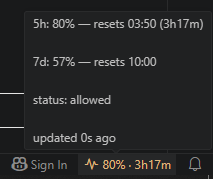
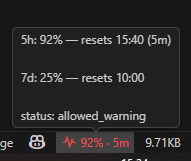
removed updated status bar item

Changed region(s): [[0.0, 0.0932, 0.9686, 1.0], [0.1571, 0.3106, 0.733, 0.3727], [0.9686, 0.9627, 0.9948, 1.0]]

diff --git a/src/extension.ts b/src/extension.ts
@@ -13,7 +13,6 @@ let item: vscode.StatusBarItem;
 let timer: ReturnType<typeof setTimeout> | undefined;
 let tick: ReturnType<typeof setInterval> | undefined;
 let lastInfo: RateInfo | undefined;
-let lastUpdatedMs = 0;
 let inFlight: Promise<void> | undefined;
 
 export function activate(context: vscode.ExtensionContext): void {
@@ -46,8 +45,8 @@ export function activate(context: vscode.ExtensionContext): void {
   void poll();
   scheduleNext();
 
-  // Re-render on a short cadence so the tooltip's "updated Ns ago" and the
-  // reset countdown advance between polls instead of freezing at render time.
+  // Re-render on a short cadence so the tooltip's reset countdown advances
+  // between polls instead of freezing at render time.
   tick = setInterval(() => {
     if (lastInfo) {
       renderOk();
@@ -94,7 +93,6 @@ async function doPoll(): Promise<void> {
   const result = await fetchRateInfo(defaultCredentialsPath());
   if (result.ok) {
     lastInfo = result.info;
-    lastUpdatedMs = Date.now();
     renderOk();
     return;
   }
@@ -129,7 +127,7 @@ function renderOk(): void {
   const now = Date.now();
   const pct = Math.round(lastInfo.fiveHourUtil * 100);
   item.text = buildBarText(lastInfo, now);
-  item.tooltip = buildTooltip(lastInfo, now, lastUpdatedMs);
+  item.tooltip = buildTooltip(lastInfo, now);
   item.color = new vscode.ThemeColor(
     pickColorId(pct, lastInfo.fiveHourStatus, cfg.greenBelow, cfg.yellowBelow)
   );

diff --git a/src/logic.ts b/src/logic.ts
@@ -77,18 +77,12 @@ export function buildBarText(info: RateInfo, nowMs: number): string {
   return `$(pulse) ${pct}% · ${formatCountdown(info.fiveHourReset, nowMs)}`;
 }
 
-export function buildTooltip(
-  info: RateInfo,
-  nowMs: number,
-  lastUpdatedMs: number
-): string {
+export function buildTooltip(info: RateInfo, nowMs: number): string {
   const p5 = Math.round(info.fiveHourUtil * 100);
   const p7 = Math.round(info.sevenDayUtil * 100);
-  const agoSec = Math.max(0, Math.round((nowMs - lastUpdatedMs) / 1000));
   return [
     `5h: ${p5}% — resets ${formatClock(info.fiveHourReset)} (${formatCountdown(info.fiveHourReset, nowMs)})`,
     `7d: ${p7}% — resets ${formatClock(info.sevenDayReset)}`,
-    `status: ${info.fiveHourStatus}`,
-    `updated ${agoSec}s ago`
+    `status: ${info.fiveHourStatus}`
   ].join('\n\n');
 }

diff --git a/test/logic.test.js b/test/logic.test.js
@@ -87,9 +87,8 @@ test('buildTooltip includes both windows and status', () => {
     sevenDayReset: Math.floor(now / 1000) + 24 * 3600,
     sevenDayStatus: 'allowed'
   };
-  const tip = buildTooltip(info, now, now - 30000);
+  const tip = buildTooltip(info, now);
   assert.match(tip, /5h: 38%/);
   assert.match(tip, /7d: 23%/);
   assert.match(tip, /status: allowed/);
-  assert.match(tip, /updated 30s ago/);
 });

diff --git a/README.md b/README.md
@@ -20,8 +20,6 @@ countdown is time until that window resets. Hover for the full breakdown:
 7d: 57% — resets 10:00
 
 status: allowed
-
-updated 0s ago
 ```
 
 ## What it does
@@ -30,8 +28,8 @@ updated 0s ago
   countdown until that window resets.
 - Color: green below 70%, yellow below 90%, red at/above 90% (or red whenever
   the API reports the window as `rejected`). Thresholds are configurable.
-- Tooltip shows the 5-hour and weekly (7-day) percentages, reset times, status,
-  and when it last updated.
+- Tooltip shows the 5-hour and weekly (7-day) percentages, reset times, and
+  status.
 - Clicking opens `https://claude.ai/new#settings/usage`.
 
 ## Status bar states
